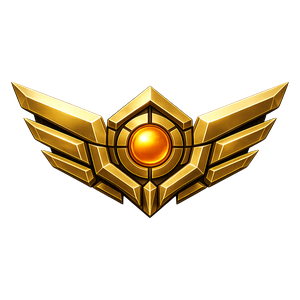
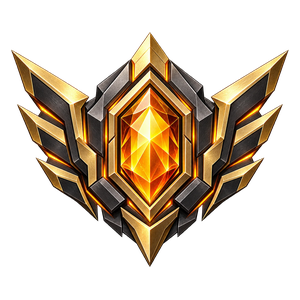
Test build: new LEGENDARY and OVERLORD rank badges
Crest-and-wings art (gold/amber, steel/red) replaces the old 2:1 wing
strips; fitted to the set's 300px frame, so every tier now draws at 1x.

diff --git a/src/menu/rankBadges.ts b/src/menu/rankBadges.ts
@@ -32,14 +32,13 @@ export function rankBadge(index: number): HTMLImageElement | null {
 }
 
 /**
- * Draw-scale for a tier's emblem. The LEGENDARY/OVERLORD art is wide
- * (wings out, ~2:1), so inside its square frame it stands only half as tall
- * as the round medals and reads too small next to them. Drawing those two
- * zoomed evens out the visual mass — their frames are transparent, so the
- * overflow never covers neighbouring paint.
+ * Draw-scale for a tier's emblem. Every badge now fills its square frame the
+ * same way (LEGENDARY/OVERLORD are crest-and-wings like MASTER, not the old
+ * ~2:1 wing strips that needed a 1.4× zoom), so all tiers draw at 1. Kept as a
+ * hook for any future art that sits small in its frame.
  */
-export function rankBadgeZoom(index: number): number {
-  return index >= 6 ? 1.4 : 1;
+export function rankBadgeZoom(_index: number): number {
+  return 1;
 }
 
 const texCache: Array<Texture | null> = images.map(() => null);
